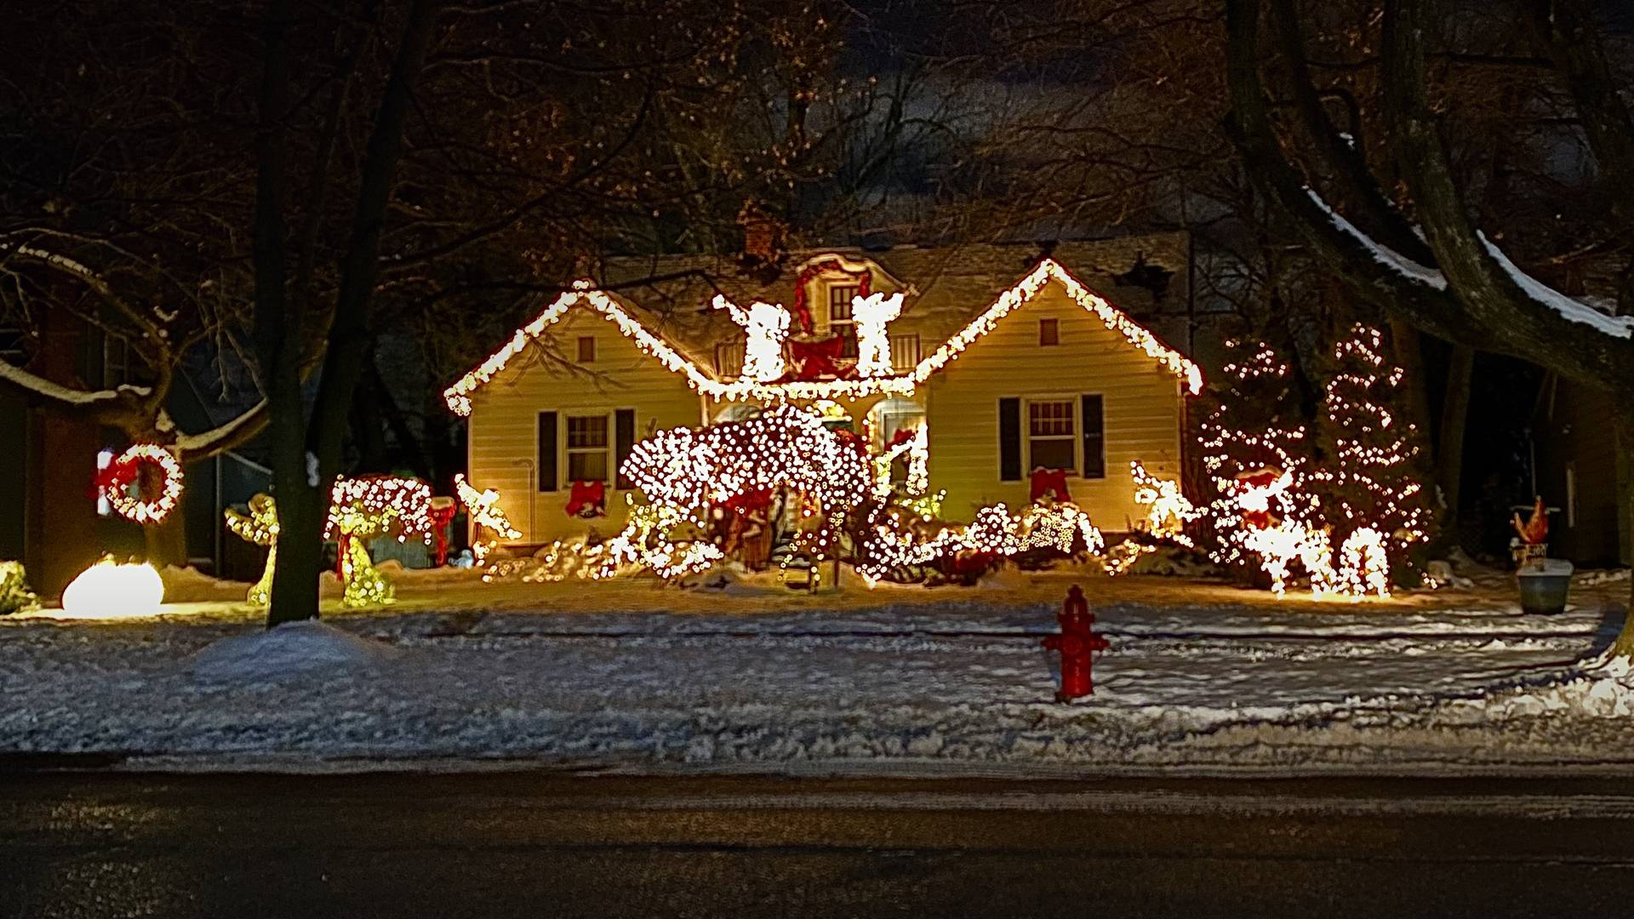
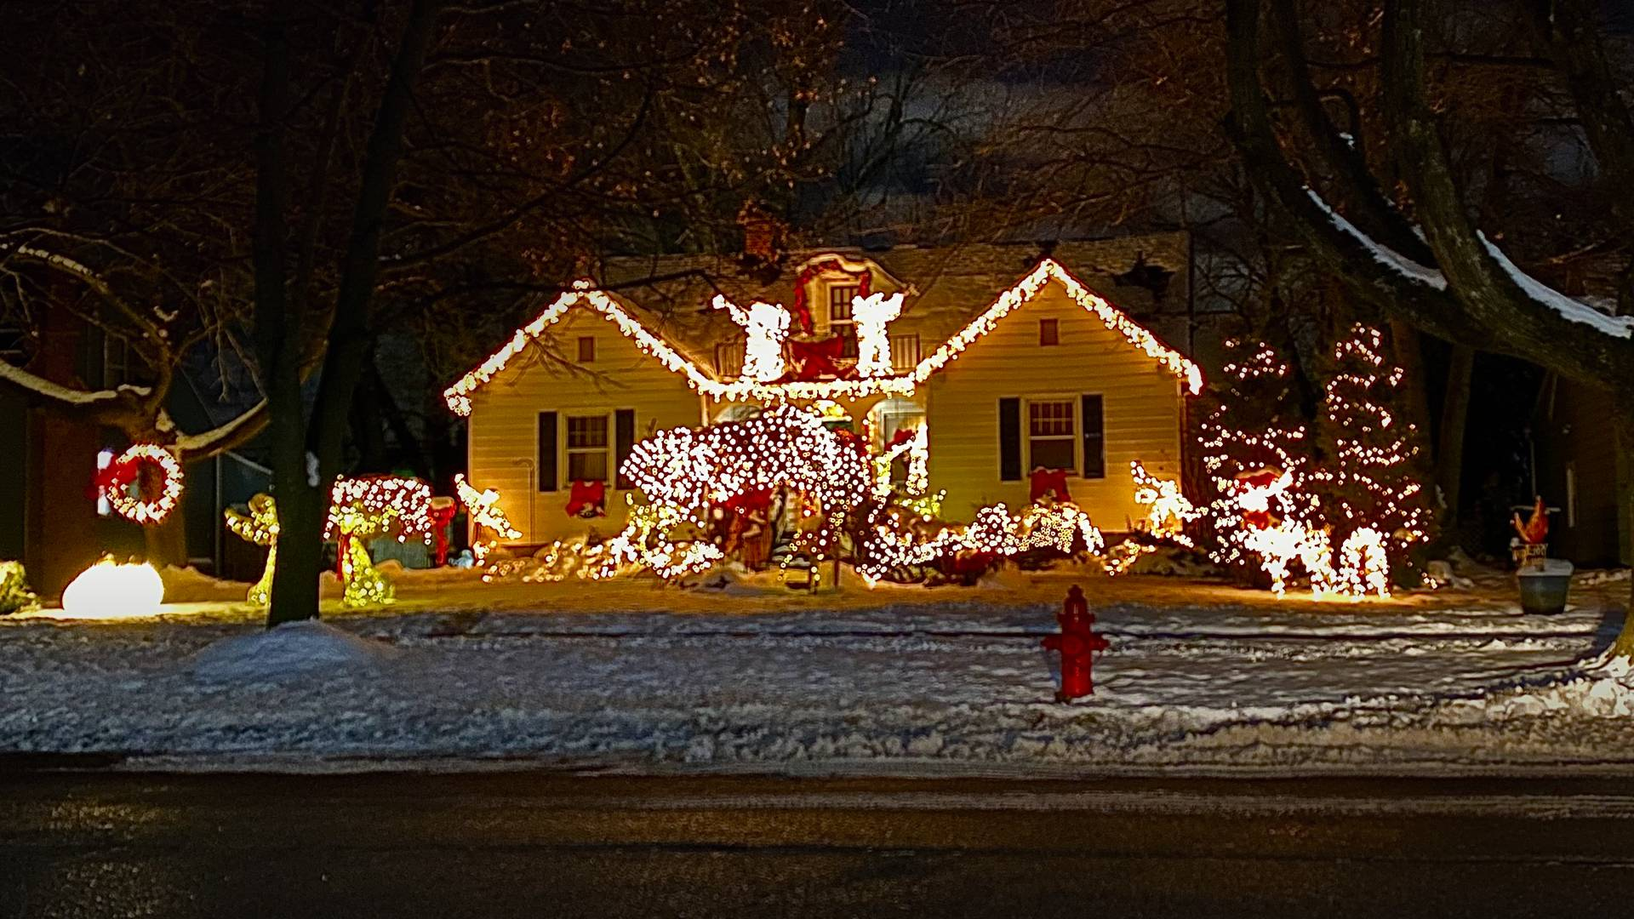
themes: christmas, four New Year pictures and the photos converted to sRGB
Four Commons photos of New Year fireworks (ny-*.jpg, built by prepare_newyear_wallpapers.py) that the skin
shows from 1 January. prepare_wallpapers.py and pictures 03 to 06 are those of the themes-christmas-cozy
branch, converted to sRGB before saving. The screenshot shows the tree and the collected snow; the README
row and the festival, wallpaper_true_color and clock_wallpaper keys describe the skin as it is now.

diff --git a/themes/christmas/prepare_wallpapers.py b/themes/christmas/prepare_wallpapers.py
@@ -1,21 +1,25 @@
 #!/usr/bin/env python3
 """Builds wallpapers/ from six Christmas photos on Wikimedia Commons (credited in CREDITS.md and in captions.txt).
 
-Each original is fetched from Commons (or read from ORIGINALS if it is already there), checked against the SHA-256
-below, cropped to 16:9 with the box given, resized to 1920x1080, darkened toward the bottom (the dock), the top-left
-corner (the clock) and a little under the top-right buttons, and saved as a JPEG with no EXIF or other metadata.
+Each original is fetched from Commons (or read from ORIGINALS if it is already there, under its Commons name),
+checked against the SHA-256 below, converted to sRGB if it carries another colour profile (two are Adobe RGB and
+one Display P3; read as sRGB they come out dull), cropped to 16:9 with the box given, resized to 1920x1080,
+darkened toward the bottom (the dock), the top-left corner (the clock) and a little under the top-right buttons,
+and saved as a JPEG with no EXIF or other metadata.
 The first picture, 01-sleigh-night.jpg, is our own CC0 illustration, drawn by make_wallpaper.py beside this file.
 
 Usage: python3 prepare_wallpapers.py ORIGINALS   (needs Pillow; ORIGINALS is a folder for the downloads)
 """
 import hashlib
+import io
 import os
 import sys
 import time
 import urllib.error
+import urllib.parse
 import urllib.request
 
-from PIL import Image, ImageChops, ImageDraw, ImageFilter
+from PIL import Image, ImageChops, ImageCms, ImageDraw, ImageFilter
 
 W, H = 1920, 1080
 OUT = os.path.join(os.path.dirname(os.path.abspath(__file__)), "wallpapers")
@@ -39,8 +43,9 @@ SOURCES = [
 ]
 
 
-def fetch(folder, out, path, sha):
-    name = os.path.join(folder, out)
+def fetch(folder, path, sha):
+    # kept under its Commons name, so ORIGINALS can never be mistaken for wallpapers/ and its built files
+    name = os.path.join(folder, urllib.parse.unquote(path.rsplit("/", 1)[1]))
     if not os.path.exists(name):
         req = urllib.request.Request(COMMONS + path, headers={"User-Agent": "CleanYourTV-themes (github.com/Gathin23/cleanyourtv)"})
         for attempt in range(5):  # Commons answers 429 to quick runs of downloads; wait and try again
@@ -60,6 +65,20 @@ def fetch(folder, out, path, sha):
     if hashlib.sha256(data).hexdigest() != sha:
         sys.exit(f"{name} is not the file this theme was made from (SHA-256 differs)")
     return name
+
+
+def icc_profile(name):
+    """The colour profile a JPEG carries, or None. Pillow stops looking at the frame header, and one original
+    (the Tallinn market) keeps its Adobe RGB profile after it, so the segments are read here up to the scan."""
+    data = open(name, "rb").read()
+    chunks, i = {}, 2
+    while i + 4 <= len(data) and data[i] == 0xFF and data[i + 1] != 0xDA:
+        size = int.from_bytes(data[i + 2:i + 4], "big")
+        body = data[i + 4:i + 2 + size]
+        if data[i + 1] == 0xE2 and body[:12] == b"ICC_PROFILE\0":
+            chunks[body[12]] = body[14:]
+        i += 2 + size
+    return b"".join(chunks[n] for n in sorted(chunks)) or None
 
 
 def shade(img):
@@ -83,8 +102,13 @@ def main(folder):
         x0, y0, x1, y1 = box
         if abs((x1 - x0) * 9 - (y1 - y0) * 16) > 16:
             sys.exit(f"{out}: crop box is not 16:9")
-        src = Image.open(fetch(folder, out, path, sha))
+        name = fetch(folder, path, sha)
+        src = Image.open(name)
         src.load()
+        icc = icc_profile(name)
+        if icc:  # convert("RGB") alone would keep Adobe RGB or Display P3 values and the TV would read them as sRGB
+            src = ImageCms.profileToProfile(src, ImageCms.ImageCmsProfile(io.BytesIO(icc)),
+                                            ImageCms.createProfile("sRGB"), outputMode="RGB")
         img = src.convert("RGB").crop(box).resize((W, H), Image.LANCZOS)
         # a new image with only the pixels: no EXIF, ICC or XMP from the original is carried over
         clean = Image.new("RGB", (W, H))
@@ -94,6 +118,8 @@ def main(folder):
             clean.save(dest, quality=quality, optimize=True, progressive=True)
             if os.path.getsize(dest) <= 300 * 1024:
                 break
+        else:
+            sys.exit(f"{out}: still over 300 KB at quality 50")
         print("wrote", os.path.join("wallpapers", out), os.path.getsize(dest))
 
 

diff --git a/themes/christmas/prepare_newyear_wallpapers.py b/themes/christmas/prepare_newyear_wallpapers.py
@@ -1,0 +1,63 @@
+#!/usr/bin/env python3
+"""Builds the theme's four New Year pictures, wallpapers/ny-*.jpg, from photos on Wikimedia Commons.
+
+The launcher shows files whose names start with "ny-" only in the Christmas skin's New Year days (1 January until
+the skin ends) and leaves them out on every other day. Each original is fetched, checked, converted to sRGB if it carries
+another colour profile, cropped, resized, shaded and saved exactly as prepare_wallpapers.py does for the Christmas photos; the credits are in CREDITS.md and in
+wallpapers/captions.txt.
+
+Usage: python3 prepare_newyear_wallpapers.py ORIGINALS   (needs Pillow; ORIGINALS is a folder for the downloads)
+"""
+import io
+import os
+import sys
+
+from PIL import Image, ImageCms
+
+from prepare_wallpapers import H, OUT, W, fetch, icc_profile, shade
+
+# (output name, Commons path, SHA-256 of the original, crop box (left, top, right, bottom) on the original)
+SOURCES = [
+    ("ny-01-melbourne.jpg", "6/6c/Melbourne_New_Year_2014_%2811726618003%29.jpg",
[1 lines of base64/hex data omitted]
+    ("ny-02-marina-bay.jpg", "c/cc/Marina-Bay_Singapore_Firework-launching-CNY-2015-03.jpg",
[1 lines of base64/hex data omitted]
+    ("ny-03-dubai.jpg", "1/14/Burj_Al_Arab_Fireworks_2021_New_Year.jpg",
[1 lines of base64/hex data omitted]
+    ("ny-04-como.jpg", "3/33/Capodanno_2020.jpg",
[1 lines of base64/hex data omitted]
+]
+
+
+def main(folder):
+    os.makedirs(folder, exist_ok=True)
+    os.makedirs(OUT, exist_ok=True)
+    for out, path, sha, box in SOURCES:
+        x0, y0, x1, y1 = box
+        if abs((x1 - x0) * 9 - (y1 - y0) * 16) > 16:
+            sys.exit(f"{out}: crop box is not 16:9")
+        name = fetch(folder, path, sha)
+        src = Image.open(name)
+        src.load()
+        icc = icc_profile(name)
+        if icc:  # as prepare_wallpapers.py: the TV would read another profile's values as sRGB
+            src = ImageCms.profileToProfile(src, ImageCms.ImageCmsProfile(io.BytesIO(icc)),
+                                            ImageCms.createProfile("sRGB"), outputMode="RGB")
+        img = src.convert("RGB").crop(box).resize((W, H), Image.LANCZOS)
+        # a new image with only the pixels: no EXIF, ICC or XMP from the original is carried over
+        clean = Image.new("RGB", (W, H))
+        clean.paste(shade(img))
+        for quality in range(86, 49, -2):  # the best quality that stays under 300 KB, as the theme guide asks
+            dest = os.path.join(OUT, out)
+            clean.save(dest, quality=quality, optimize=True, progressive=True)
+            if os.path.getsize(dest) <= 300 * 1024:
+                break
+        else:
+            sys.exit(f"{out}: still over 300 KB at quality 50")
+        print("wrote", os.path.join("wallpapers", out), os.path.getsize(dest))
+
+
+if __name__ == "__main__":
+    if len(sys.argv) != 2:
+        sys.exit(__doc__.strip().splitlines()[-1])
+    main(sys.argv[1])

diff --git a/themes/README.md b/themes/README.md
@@ -48,7 +48,7 @@ updated. Add-ons with custom shell installers still need Bash; this native Windo
 | `family/` | A family in single-line drawings on black, recoloured for the time of day with a sun or moon drawn in code: the whole family in the morning and evening, the parents alone under the moon at night (`wallpaper_moods`, icon-only buttons, and the clock screensaver over the picture). The drawings are CC0, not MIT: see `family/CREDITS.md` | <img src="family/screenshot.jpg" width="320" alt="family theme"> |
 | `glass/` | Dark navy wallpaper with soft teal and violet light, the cinematic top shelf, a frosted-glass dock, icon-only buttons and the focus glow in the app's colour, gliding without overshoot | <img src="glass/screenshot.jpg" width="320" alt="glass theme"> |
 | `glass-gallery/` | Seven slots in a translucent dock, an app library, white icon-only header controls and three original abstract wallpapers rotated every 30 minutes. No app-colour glow or advanced effects. The wallpapers are CC0: see [CREDITS.md](glass-gallery/CREDITS.md) | <img src="glass-gallery/screenshot.jpg" width="320" alt="glass-gallery theme on a Kenwood K32M15G6"> |
-| `christmas/` | A cozy Christmas until 6 Jan 2027: a snowy Christmas night of our own (CC0, drawn by `make_wallpaper.py`: Santa's sleigh and reindeer over a lit cabin and fir trees) and six photos from Wikimedia Commons (a fireplace, presents under a tree, a Christmas market in the snow in Tallinn, a house in lights in Buffalo, an Advent wreath of candles, a snowy December evening in Helsinki), a new one every 20 minutes with its photographer under the buttons (credited in `christmas/CREDITS.md`; CC BY / CC BY-SA, not MIT; rebuilt by `prepare_wallpapers.py`). The dock sits low so the picture shows, with a frosted-glass dock, faded rows and the picture behind the idle clock. With a launcher that knows the `christmas` skin (`seasonal_skin`), the Christmas skin too: an Advent candle for Wi-Fi whose flame follows the connection and which burns shorter each day of December, a jingle bell with holly for Inputs, a snowflake for Settings, snow falling over Home, a line of snow on the dock, a candlelight glow and a greeting that counts the sleeps to Christmas; it switches itself off after 6 January, the pictures stay until `--reset` | <img src="christmas/screenshot.jpg" width="320" alt="christmas theme"> |
+| `christmas/` | A cozy Christmas until 6 Jan 2027: a snowy Christmas night of our own (CC0, drawn by `make_wallpaper.py`: Santa's sleigh and reindeer over a lit cabin and fir trees) and six photos from Wikimedia Commons (a fireplace, presents under a tree, a Christmas market in the snow in Tallinn, a house in lights in Buffalo, an Advent wreath of candles, a snowy December evening in Helsinki), a new one every 20 minutes with its photographer under the buttons (credited in `christmas/CREDITS.md`; CC BY / CC BY-SA, not MIT; rebuilt by `prepare_wallpapers.py`), and four photos of New Year fireworks (`ny-*.jpg`, rebuilt by `prepare_newyear_wallpapers.py`) that a launcher with the skin shows in their place from 1 January. The dock sits low so the picture shows, with a frosted-glass dock, faded rows and the picture behind the idle clock. With a launcher that knows the `christmas` skin (`seasonal_skin`), the Christmas skin too: an Advent candle for Wi-Fi whose flame follows the connection and which burns shorter each day of December, a jingle bell with holly for Inputs, a snowflake for Settings, snow falling over Home that collects on the dock until a small plough clears it, a Christmas tree on the dock that is dressed a little more each day, a candlelight glow and a greeting that counts the sleeps to Christmas; fireworks, a countdown and New Year pictures at the turn of the year, and the same snow scene on the clock screensaver (see `festival` below); it switches itself off after 6 January, the pictures stay until `--reset` | <img src="christmas/screenshot.jpg" width="320" alt="christmas theme"> |
 | `diwali/` | Diwali until 11 Nov 2026: eight Diwali photos from Wikimedia Commons (a row of diyas, diyas in a rangoli and among marigolds, akash kandils in Pune, fireworks over Melbourne's Yarra and over a lake in Chennai, a street in lights in Karnal, a diya with four flames), a new one every 20 minutes with its photographer under the buttons (credited in `diwali/CREDITS.md`; CC BY / CC BY-SA, not MIT; rebuilt by `prepare_wallpapers.py`). The dock sits low so the picture shows, and the festive skin turns Wi-Fi into a diya, Inputs into a bell and Settings into a marigold, greets you with Happy Diwali and switches itself off after 11 November | <img src="diwali/screenshot.jpg" width="320" alt="diwali theme"> |
 | `halloween/` | Halloween until 1 Nov 2026: an illustrated haunted house (our own, CC0) and seven night photos from Wikimedia Commons (jack-o'-lanterns by candlelight, a full moon behind a sequoia grove and over a Swedish fjord, a moonrise, two cemeteries in fog), a new one every 30 minutes (credited in `halloween/CREDITS.md`, not on screen), and a frosted-glass dock. With a launcher that knows `seasonal_skin`, the Halloween skin too: a jack-o'-lantern for Wi-Fi that glows while online, a bat for Inputs, a ghost for Settings, bats over the first Home of the day and "Happy Halloween"; it switches itself off after 1 November, the pictures stay until `--reset`. The illustration is CC0; the photos are CC0, public domain, CC BY and CC BY-SA, not MIT: see `halloween/CREDITS.md` | <img src="halloween/screenshot.jpg" width="320" alt="halloween theme"> |
 | `istanbul/` | Istanbul drawn in flat layers by code alone: Topkapı Palace, Hagia Sophia, the Blue Mosque, Galata Tower and the Bosphorus Bridge over the water with a ferry, under a faint eight-pointed-star lattice, in a morning, evening and night picture (`wallpaper_moods`, icon-only buttons). The pictures are CC0, not MIT: see `istanbul/CREDITS.md` | <img src="istanbul/screenshot.jpg" width="320" alt="istanbul theme"> |
@@ -119,7 +119,7 @@ A new key needs one there in the same pull request.
 | `library_button` | bool | The app library as a round button in the top bar, beside Settings; needs `app_library`. Closing the library returns to it |
 | `show_library_pill` | bool | The App library pill after the last Home row (`true` by default); `false` hides it while `library_button` is on, so the top-bar button stays the way in and Down from the last row stays put, as with `app_library` off |
 | `always_show_names` | bool | Names under every tile, dimmed until focused, the dock included (its band grows to hold them); `false` by default shows only the focused tile's name |
-| `wallpaper_true_color` | bool | Decode wallpapers in 32-bit colour (8 MB at 1080p) instead of RGB_565 (4 MB), which bands dark gradients such as a night sky; for TVs with 2 GB or more (`false` by default) |
+| `wallpaper_true_color` | bool | Decode wallpapers in 32-bit colour (8 MB at 1080p) instead of RGB_565 (4 MB), which bands dark gradients such as a night sky; for TVs with 2 GB or more (`false` by default). The clock screensaver's picture (`clock_wallpaper`) follows it |
 | `app_library` | bool | An App library pill after the last Home row: every installed app, add one to Home or take it off (`false` by default). The choices stay on the TV when a theme is pushed or reset; see [docs/app-library.md](../docs/app-library.md) |
 | `uniform_tiles` | bool | Each app tile is its icon on a card tinted from that icon, with the name only under the focused tile, instead of the app's own banner (`false` by default) |
 | `icon_tiles` | list of package names, `config.xml` only | Apps drawn from their icon and name instead of their banner, for banners that crop badly; empty by default. Not read from a theme |
@@ -161,7 +161,7 @@ A new key needs one there in the same pull request.
 | `wallpaper_captions` | bool | With a rotating collection, the shown picture's name under the top-right buttons, from `wallpapers/captions.txt` (`001.jpg<TAB>Dusk over the peaks`, one per line); a picture without a line shows no name (`false` by default) |
 | `wallpaper_moods` | object | A rotating collection grouped by time of day: `{"morning": [...], "evening": [...], "night": [...]}` with file names from `wallpapers/`. Morning runs from sunrise to noon, evening until half an hour after sunset, night the rest, with the sun at config.xml's `latitude` and `longitude` (07:00 and 18:30 without them); a missing group rotates through every picture, and so does a group whose names are not the pictures in `wallpapers/` (a renamed picture, a suffix the launcher does not read), since those names are dropped one by one; every group is read by these three names only. Unset by default |
 | `tile_menu` | bool | Hold OK or press the remote's Menu key on a tile to open a small menu: Move, Remove from Home (with `app_library`) and App info. `true` by default since launcher 3.3; `false` keeps holding OK as a shortcut to the app's App info page and leaves Menu unchanged |
-| `festival` | string | Turns on a festive skin: the network pill becomes a diya whose flame follows the connection, Inputs a temple bell, Settings a marigold, and the first Home of the day gets a petal shower. `dussehra` and `diwali` have built-in greetings. `halloween` has its own skin: a jack-o'-lantern whose carved face glows while the TV is online and goes dark when it drops, a bat for Inputs that flaps when focused, a ghost for Settings that floats up, bats flying up over the first Home of the day, "Happy Halloween" and a pumpkin-orange glow. `christmas` has its own skin as well: an Advent candle for the network whose flame follows the connection as the diya's does (out, with a wisp of smoke, while offline) and which is full height until 1 December and a little shorter each day until the 25th, a jingle bell with holly for Inputs that swings when focused, a snowflake for Settings that turns, snow falling over Home for as long as it is on screen (drawn about 30 times a second, stopped with Home and with reduced motion), a line of settled snow on the dock band's top edge, a candlelight glow, and a greeting that follows the date: "39 sleeps to Christmas" for the 60 days before the 25th, "Merry Christmas" from the 25th to the 31st, "Happy New Year" in January (English only). Launchers before a skin show any name as the diya skin, so a Halloween or Christmas theme names it with `seasonal_skin` instead |
+| `festival` | string | Turns on a festive skin: the network pill becomes a diya whose flame follows the connection, Inputs a temple bell, Settings a marigold, and the first Home of the day gets a petal shower. `dussehra` and `diwali` have built-in greetings. `halloween` has its own skin: a jack-o'-lantern whose carved face glows while the TV is online and goes dark when it drops, a bat for Inputs that flaps when focused, a ghost for Settings that floats up, bats flying up over the first Home of the day, "Happy Halloween" and a pumpkin-orange glow. `christmas` has its own skin as well: an Advent candle for the network whose flame follows the connection as the diya's does (out, with a wisp of smoke, while offline) and which is full height until 1 December and a little shorter each day until the 25th, a jingle bell with holly for Inputs that swings when focused, a snowflake for Settings that turns, snow falling over Home for as long as it is on screen (drawn about 30 times a second, stopped with Home and with reduced motion), snow that settles on the dock band's top edge and is cleared by a small plough whenever enough has collected (about every four to five minutes), a Christmas tree at the dock's right end that gains lights and baubles as the 25th nears, with its star lit and presents under it from Christmas Day, a candlelight glow, and a greeting that follows the date: "39 sleeps to Christmas" for the 60 days before the 25th, "Merry Christmas" from the 25th to the 29th, "2 days to 2027" on the 30th, "New Year's Eve" on the 31st, "Happy New Year" in January (English only). The turn of the year is part of the skin: a firework now and then on 30 and 31 December, the last ten seconds of the year counted down on screen, a minute of fireworks at midnight, and from 1 January until `festival_until` a sparkler in place of the candle, no presents, and only the pictures in `wallpapers/` whose names start with `ny-` (on every other day those are left out; a theme with none keeps its own). All of it is silent. The clock screensaver carries the skin too: the snow collects along the bottom of the screen, with the tree, the plough, the greeting under the date and the same New Year fireworks and countdown, for as long as the screensaver is up (not with reduced motion). Launchers before a skin show any name as the diya skin, so a Halloween or Christmas theme names it with `seasonal_skin` instead |
 | `seasonal_skin` | string | Names a festive skin like `festival` (`halloween`, `christmas`), read only when `festival` is empty or missing. Launchers that predate it ignore the key, so a theme that sets it shows the rest of its look there without the wrong skin; `festival_until`, `greeting` and `accent_color` apply to it as to `festival` |
 | `festival_until` | `YYYY-MM-DD` | Last day the festive skin shows; it switches itself off after that. A malformed date turns it off |
 | `greeting` | string | Replaces the time-of-day greeting while the festive skin is on |
@@ -189,7 +189,7 @@ A new key needs one there in the same pull request.
 | `race_calendar` | list of races | F1 race-weekend mode: from 12 hours before a weekend's first session until 4 hours after the race starts, a panel under the clock shows the next session with a countdown (or the live one) and the weekend's session times in the TV's time zone. Write it with `tools/venv/bin/python -I tools/race_calendar.py <theme folder>`, which fetches the season from the free Jolpica API; the launcher itself never goes online |
 | `home_idle_clock_minutes` | 0 to 1440 | Minutes Home may sit untouched before it shows the clock screensaver (a thin clock and date drifting over a slow glow, as the system "Clock" screensaver does). Any key returns to Home. It starts only from Home, never over Live TV or an app; 0 is off (default) |
 | `back_opens_clock` | bool | Back on the Home screen opens the clock screensaver (the same screen as `home_idle_clock_minutes`) instead of doing nothing. Back inside apps, Settings and the App library is unchanged; any key leaves the clock for Home. `false` by default |
-| `clock_wallpaper` | bool | The clock screensaver over Home's wallpaper instead of black with a coloured glow; the clock still moves every minute (`false` by default) |
+| `clock_wallpaper` | bool | The clock screensaver over Home's wallpaper instead of black with a coloured glow; the clock still moves every minute (`false` by default). With the `christmas` skin on, the skin's snow scene is drawn over it and the clock keeps to the upper left |
 | `clock_wallpaper_dim` | 0 to 90 | How dark that wallpaper is behind the clock, in percent (50 by default) |
 | `clock_glow` | bool | The clock screensaver's coloured glow (`true` by default); `false` leaves the moving clock on plain black, e.g. for an OLED |
 | `glow_style` | string | Shape of the glow behind the focused app, in its colour: `radial` (default) or `horizon`, the colour washing down from the top edge to black; the cinematic shelf keeps its own. Any other value falls back to `radial`; there is no value for "none", so a theme without a glow sets `ambient_glow` and `app_glow` to `false` |

diff --git a/themes/christmas/CREDITS.md b/themes/christmas/CREDITS.md
@@ -23,7 +23,21 @@ CC BY-SA pictures stay under CC BY-SA. Each picture's credit also shows under th
 - `07-snowy-street.jpg`: "Mannerheimintie on a snowy December evening.jpg" by JIP, CC BY-SA 4.0
   https://commons.wikimedia.org/wiki/File:Mannerheimintie_on_a_snowy_December_evening.jpg
 
+The four New Year pictures (`ny-*.jpg`, shown only from 1 January until the skin ends) are photos from Wikimedia
+Commons too, rebuilt by `prepare_newyear_wallpapers.py` with the same changes as the photos above:
+
+- `ny-01-melbourne.jpg`: "Melbourne New Year 2014 (11726618003).jpg" by Chris Phutully, CC BY 2.0
+  https://commons.wikimedia.org/wiki/File:Melbourne_New_Year_2014_(11726618003).jpg
+- `ny-02-marina-bay.jpg`: "Marina-Bay Singapore Firework-launching-CNY-2015-03.jpg" by CEphoto, Uwe Aranas,
+  CC BY-SA 3.0 (the fireworks that opened the Chinese New Year 2015)
+  https://commons.wikimedia.org/wiki/File:Marina-Bay_Singapore_Firework-launching-CNY-2015-03.jpg
+- `ny-03-dubai.jpg`: "Burj Al Arab Fireworks 2021 New Year.jpg" by Bengin Ahmad, CC BY 2.0
+  https://commons.wikimedia.org/wiki/File:Burj_Al_Arab_Fireworks_2021_New_Year.jpg
+- `ny-04-como.jpg`: "Capodanno 2020.jpg" by Achille Ballerini, CC BY-SA 4.0
+  https://commons.wikimedia.org/wiki/File:Capodanno_2020.jpg
+
 CC0 1.0: https://creativecommons.org/publicdomain/zero/1.0/
+CC BY 2.0: https://creativecommons.org/licenses/by/2.0/
 CC BY 3.0: https://creativecommons.org/licenses/by/3.0/
 CC BY-SA 3.0: https://creativecommons.org/licenses/by-sa/3.0/
 CC BY-SA 4.0: https://creativecommons.org/licenses/by-sa/4.0/
